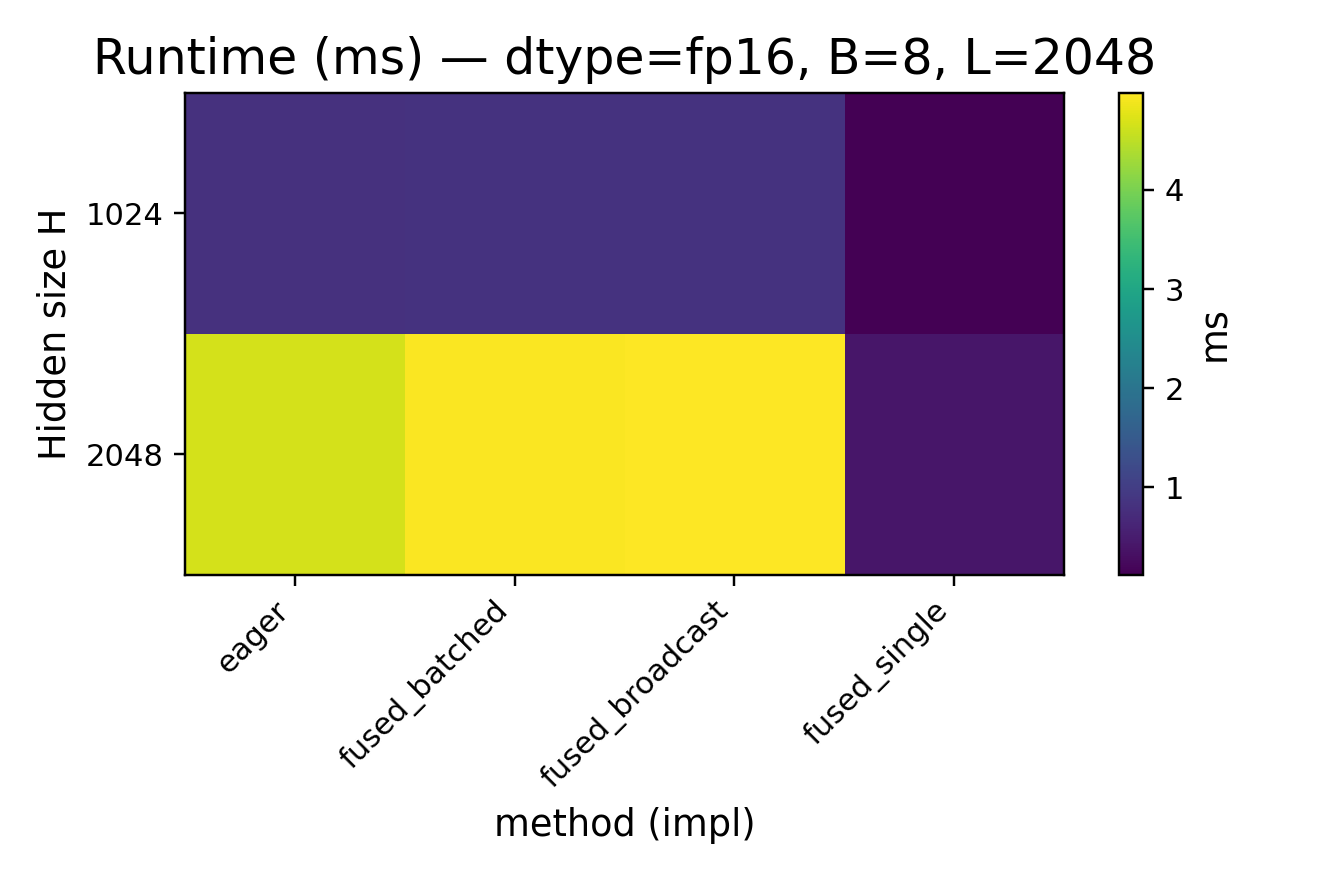
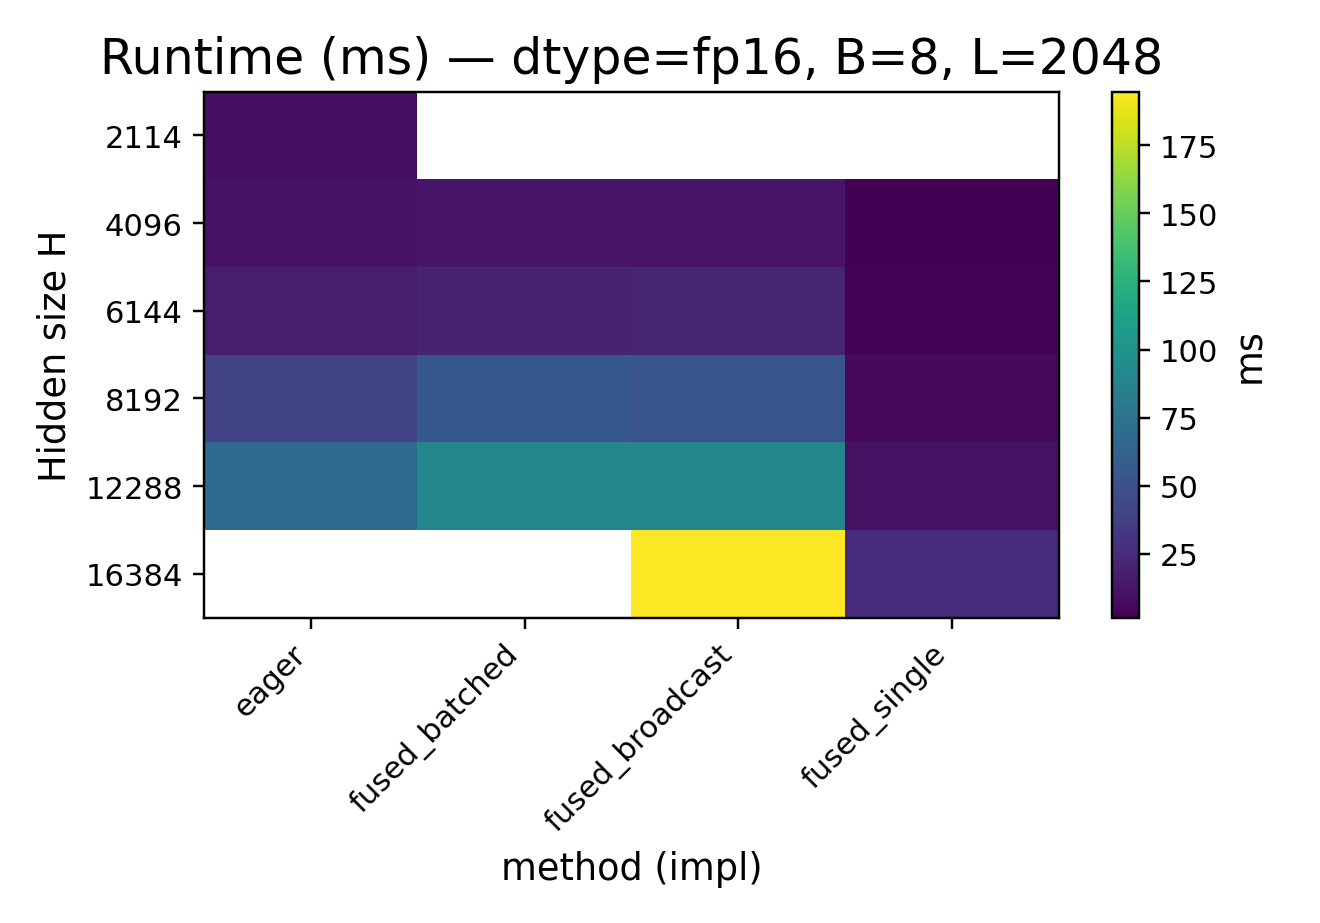
More test data added

diff --git a/ddn_swiglu_bench_pairs.py b/ddn_swiglu_bench_pairs.py
@@ -19,10 +19,10 @@ plt.rcParams.update({
 warnings.filterwarnings("ignore", message="invalid value encountered")
 
 OUTDIR   = "bench_out"
-PAIRS    = [(1024, 4096), (2048, 8192)]
+PAIRS    = [(2114, 5637),(4096, 14336), (6144, 16384), (8192, 28672), (12288, 32768), (16384, 53248), (256000, 682666)]
 DTYPES   = ["fp16", "bf16", "fp32"]
 SEQLENS  = [2048]
-BATCHES  = [1, 2, 4, 8, 16, 32]
+BATCHES  = [2, 4, 8]
 IMPLS    = ["eager", "fused_single", "fused_batched", "fused_broadcast"]
 TF32     = True
 DEVICE   = "cuda" if torch.cuda.is_available() else "cpu"
